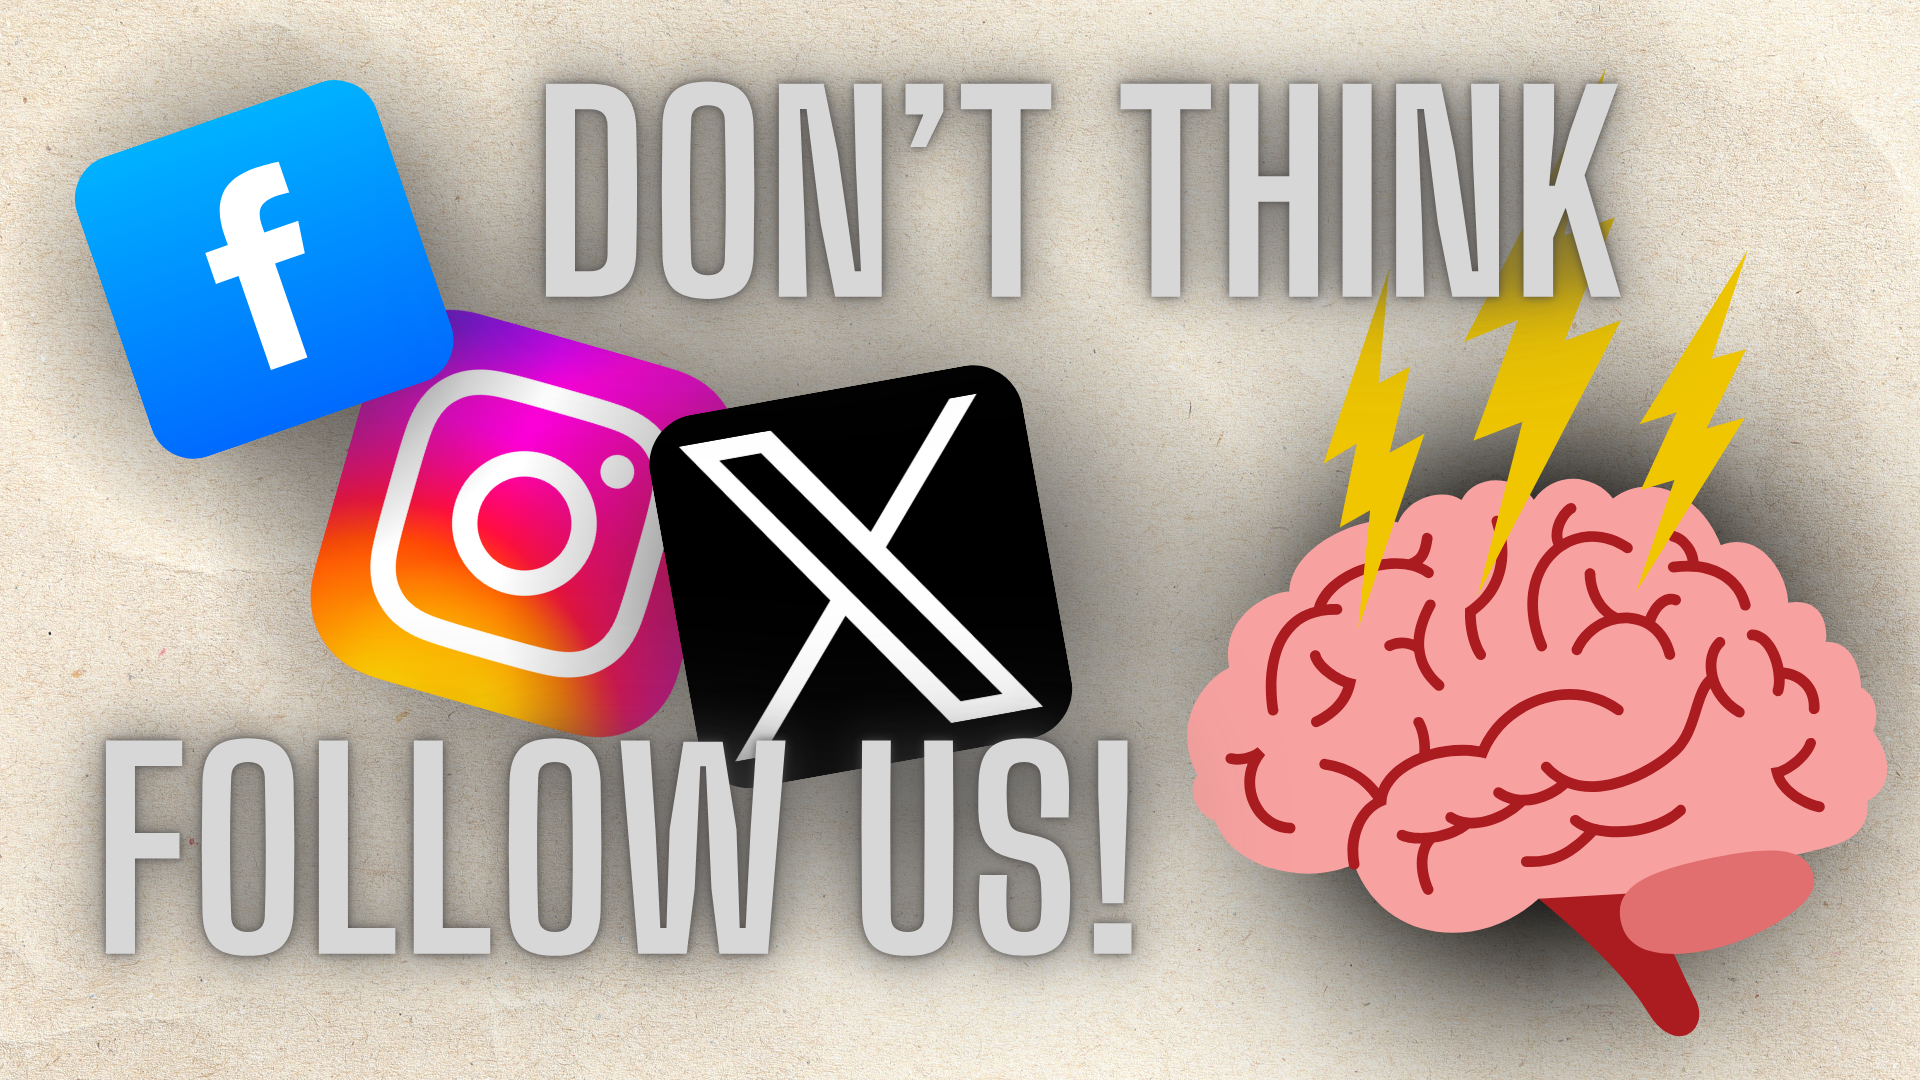
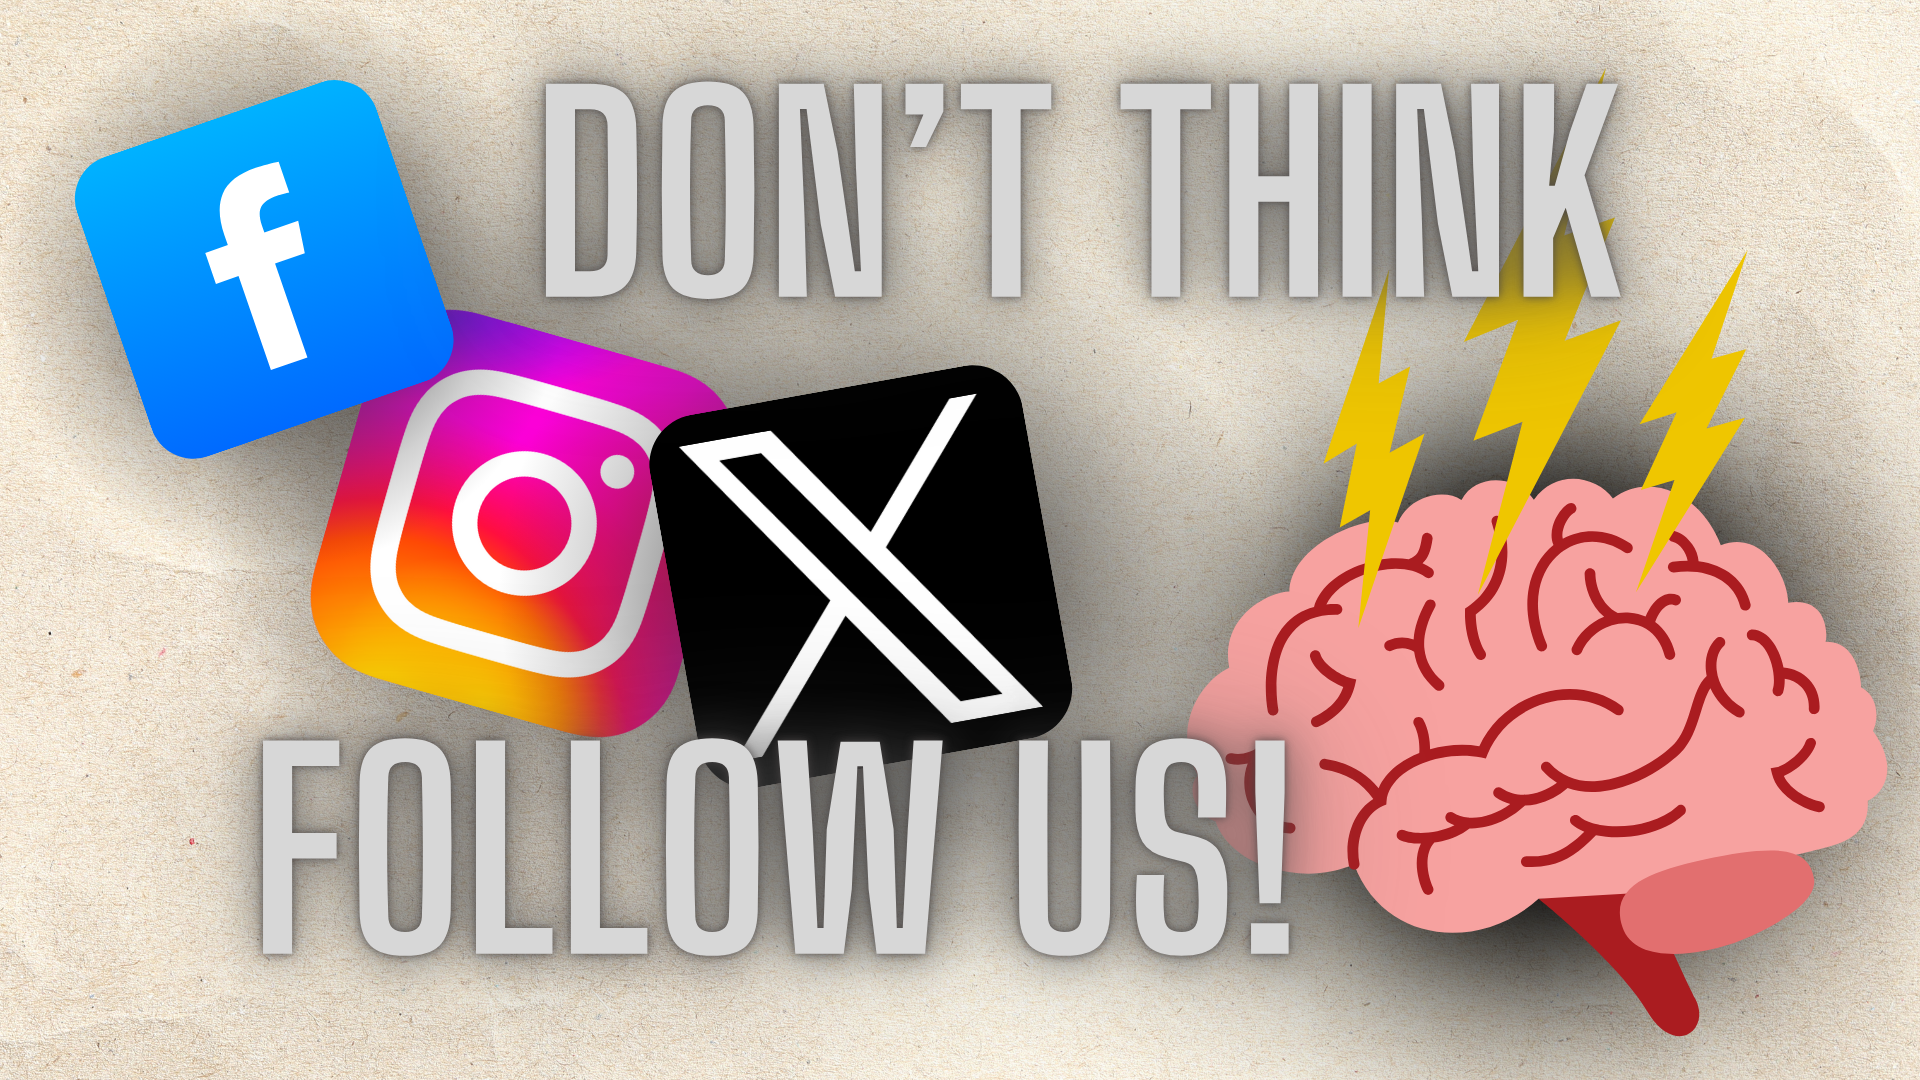
add new thumbnail

Changed region(s): [[0.0312, 0.6417, 0.6875, 0.9167]]

diff --git a/public/index.html b/public/index.html
@@ -419,7 +419,7 @@
     
     <div class="min-h-full border border-neutral-200 dark:border-neutral-700 border-2 rounded overflow-hidden shadow-2xl relative">
         
-        <div class="w-full thumbnail_card nozoom" style="background-image:url(/posts/how-social-media-is-changing-the-way-we-think/featured_hu_c13a504a65ceeee0.png);"></div>
+        <div class="w-full thumbnail_card nozoom" style="background-image:url(/posts/how-social-media-is-changing-the-way-we-think/featured_hu_6872312a5dff6a0e.png);"></div>
         
       
 

diff --git a/public/posts/index.html b/public/posts/index.html
@@ -398,7 +398,7 @@
     
     <div class="min-h-full border border-neutral-200 dark:border-neutral-700 border-2 rounded overflow-hidden shadow-2xl relative">
         
-        <div class="w-full thumbnail_card nozoom" style="background-image:url(/posts/how-social-media-is-changing-the-way-we-think/featured_hu_c13a504a65ceeee0.png);"></div>
+        <div class="w-full thumbnail_card nozoom" style="background-image:url(/posts/how-social-media-is-changing-the-way-we-think/featured_hu_6872312a5dff6a0e.png);"></div>
         
       
 
